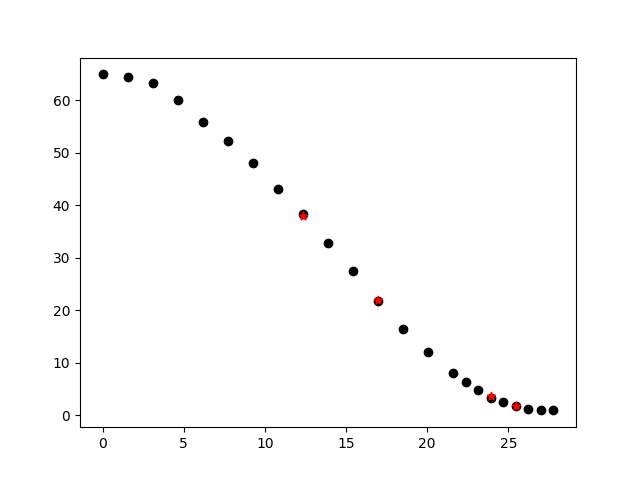
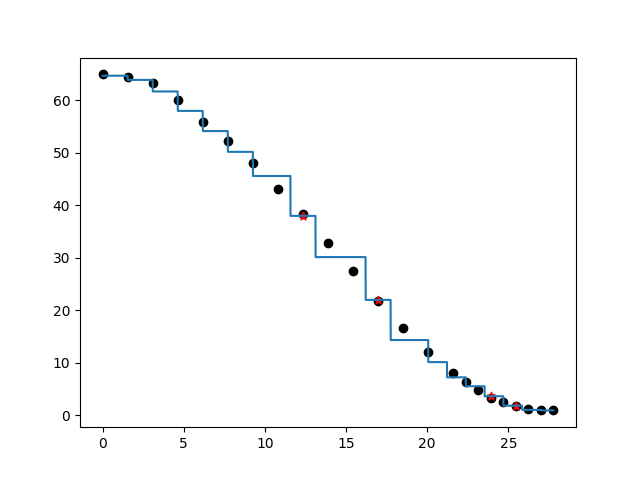
AOA v2.5: DT, GBDT, MLP, RF

diff --git a/AOA/B_Process_Generic.py b/AOA/B_Process_Generic.py
@@ -7,15 +7,13 @@ import os
 
 
 class Process:
-    def __init__(self, base_file_name, index):
+    def __init__(self, base_file_name, index, model_name):
         self.base_file_name = base_file_name
         self.index = index
+        self.model_name = model_name
         self.model = None
 
     def fit(self, train_x, train_y):
-        # model = SVR(C=10.0, cache_size=200,  degree=100, epsilon=0.001,
-        #             gamma=0.1, kernel='rbf',
-        #             max_iter=-1, shrinking=True, tol=0.001, verbose=False)
         self.model.fit(Util.convert_1d_array_to_2d(train_x), train_y)
 
     def process(self):
@@ -28,11 +26,6 @@ class Process:
 
         _local_dir = os.path.dirname(__file__)
         output_file_path = _local_dir + '/' + Constants.DIRECTORY_MODEL + '/' + self.base_file_name + '_' + str(
-            self.index) + '_svr'
+            self.index) + '_' + self.model_name
         save_pickle = open(output_file_path, 'wb')
         pickle.dump(self.model, save_pickle)
-
-
-# if __name__ == '__main__':
-#     process = Process(base_file_name='E0a.txt_shuffle.csv', index=0)
-#     process.process()

diff --git a/AOA/B_Process_MLP.py b/AOA/B_Process_MLP.py
@@ -1,0 +1,21 @@
+from sklearn.neural_network import MLPRegressor
+from B_Process_Generic import Process
+
+
+class ProcessMLP(Process):
+    def __init__(self, base_file_name, index, model_name):
+        super().__init__(base_file_name, index, model_name)
+        self.model = MLPRegressor(activation='relu', alpha=0.0001, batch_size='auto',
+                                  learning_rate='constant',
+                                  learning_rate_init=0.0001, power_t=0.5,
+                                  max_iter=200000, momentum=0.9, shuffle=True, random_state=None,
+                                  nesterovs_momentum=True, solver='adam', tol=0.0001,
+                                  n_iter_no_change=10, validation_fraction=0.1, verbose=False,
+                                  warm_start=True, hidden_layer_sizes=(
+                512, 256, 128, 64, 32)
+                                  )
+
+
+if __name__ == '__main__':
+    process = ProcessMLP(base_file_name='E0a.txt_shuffle.csv', index=0, model_name='mlp')
+    process.process()

diff --git a/AOA/Plot.py b/AOA/Plot.py
@@ -2,8 +2,10 @@ import matplotlib.pyplot as plt
 import os
 from Constants import Constants
 import numpy as np
-# from scipy.interpolate import interp1d
-from scipy.interpolate import make_interp_spline
+from scipy.interpolate import interp1d
+
+
+# from scipy.interpolate import make_interp_spline
 
 
 class Plot:
@@ -31,10 +33,10 @@ class Plot:
         Plot.plot(train_x=train_x, train_y=train_y, val_x=val_x, val_y=val_y,
                   pred_val_y=pred_val_y)
 
-        # x_y_cubic = interp1d(curve_x, curve_y, kind='cubic')
-        # _x1 = np.linspace(min(curve_x), max(curve_x), 500)
-        # _y1 = x_y_cubic(_x1)
-        # plt.plot(_x1, _y1)
+        x_y_cubic = interp1d(curve_x, curve_y, kind='cubic')
+        _x1 = np.linspace(min(curve_x), max(curve_x), curve_step)
+        _y1 = x_y_cubic(_x1)
+        plt.plot(_x1, _y1)
 
         # x_y_spline = make_interp_spline(curve_x, curve_y)
         # _x2 = np.linspace(min(curve_x), max(curve_x), curve_step)

diff --git a/AOA/B_Process_SVR.py b/AOA/B_Process_SVR.py
@@ -3,13 +3,13 @@ from B_Process_Generic import Process
 
 
 class ProcessSVR(Process):
-    def __init__(self, base_file_name, index):
-        super().__init__(base_file_name, index)
+    def __init__(self, base_file_name, index, model_name):
+        super().__init__(base_file_name, index, model_name)
         self.model = SVR(C=10.0, cache_size=200, degree=100, epsilon=0.001,
                          gamma=0.1, kernel='rbf',
                          max_iter=-1, shrinking=True, tol=0.001, verbose=False)
 
 
 if __name__ == '__main__':
-    process = ProcessSVR(base_file_name='E0a.txt_shuffle.csv', index=0)
+    process = ProcessSVR(base_file_name='E0a.txt_shuffle.csv', index=0, model_name='svr')
     process.process()

diff --git a/AOA/B_Process_KNN.py b/AOA/B_Process_KNN.py
@@ -3,11 +3,11 @@ from B_Process_Generic import Process
 
 
 class ProcessKNN(Process):
-    def __init__(self, base_file_name, index):
-        super().__init__(base_file_name, index)
-        self.model = KNeighborsRegressor(n_neighbors=20)
+    def __init__(self, base_file_name, index, model_name):
+        super().__init__(base_file_name, index, model_name)
+        self.model = KNeighborsRegressor(n_neighbors=2)
 
 
 if __name__ == '__main__':
-    process = ProcessKNN(base_file_name='E0a.txt_shuffle.csv', index=0)
+    process = ProcessKNN(base_file_name='E0a.txt_shuffle.csv', index=0, model_name='knn')
     process.process()

diff --git a/AOA/B_Process_GBDT.py b/AOA/B_Process_GBDT.py
@@ -1,0 +1,14 @@
+from sklearn.ensemble import GradientBoostingRegressor
+from B_Process_Generic import Process
+
+
+class ProcessGBDT(Process):
+    def __init__(self, base_file_name, index, model_name):
+        super().__init__(base_file_name, index, model_name)
+        self.model = GradientBoostingRegressor(n_estimators=400, max_depth=11, learning_rate=0.06, loss='squared_error',
+                                               subsample=0.8)
+
+
+if __name__ == '__main__':
+    process = ProcessGBDT(base_file_name='E0a.txt_shuffle.csv', index=0, model_name='gbdt')
+    process.process()

diff --git a/AOA/B_Process_RF.py b/AOA/B_Process_RF.py
@@ -1,0 +1,13 @@
+from sklearn.ensemble import RandomForestRegressor
+from B_Process_Generic import Process
+
+
+class ProcessRF(Process):
+    def __init__(self, base_file_name, index, model_name):
+        super().__init__(base_file_name, index, model_name)
+        self.model = RandomForestRegressor(max_depth=2, random_state=0, n_estimators=100)
+
+
+if __name__ == '__main__':
+    process = ProcessRF(base_file_name='E0a.txt_shuffle.csv', index=0, model_name='rf')
+    process.process()

diff --git a/AOA/B_Process_DT.py b/AOA/B_Process_DT.py
@@ -1,0 +1,13 @@
+from sklearn.tree import DecisionTreeRegressor
+from B_Process_Generic import Process
+
+
+class ProcessDT(Process):
+    def __init__(self, base_file_name, index, model_name):
+        super().__init__(base_file_name, index, model_name)
+        self.model = DecisionTreeRegressor()
+
+
+if __name__ == '__main__':
+    process = ProcessDT(base_file_name='E0a.txt_shuffle.csv', index=0, model_name='dt')
+    process.process()

diff --git a/AOA/C_Predict_GBDT.py b/AOA/C_Predict_GBDT.py
@@ -1,0 +1,5 @@
+from C_Predict_Generic import Predict
+
+if __name__ == '__main__':
+    predict = Predict(base_file_name='E0a.txt_shuffle.csv', index=0, model_name='gbdt')
+    predict.valuation()

diff --git a/AOA/C_Predict_MLP.py b/AOA/C_Predict_MLP.py
@@ -1,0 +1,5 @@
+from C_Predict_Generic import Predict
+
+if __name__ == '__main__':
+    predict = Predict(base_file_name='E0a.txt_shuffle.csv', index=0, model_name='mlp')
+    predict.valuation()

diff --git a/AOA/C_Predict_DT.py b/AOA/C_Predict_DT.py
@@ -1,0 +1,5 @@
+from C_Predict_Generic import Predict
+
+if __name__ == '__main__':
+    predict = Predict(base_file_name='E0a.txt_shuffle.csv', index=0, model_name='dt')
+    predict.valuation()

diff --git a/AOA/C_Predict_RF.py b/AOA/C_Predict_RF.py
@@ -1,0 +1,5 @@
+from C_Predict_Generic import Predict
+
+if __name__ == '__main__':
+    predict = Predict(base_file_name='E0a.txt_shuffle.csv', index=0, model_name='rf')
+    predict.valuation()
